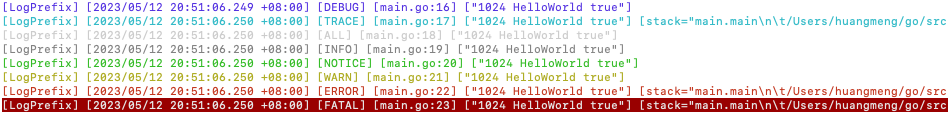
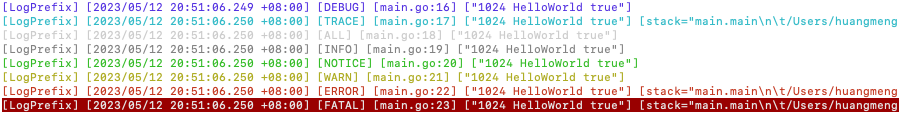
update README.md

diff --git a/README.md b/README.md
@@ -80,7 +80,7 @@ func main() {
 ```
 
 #### Highlight
-<img src="https://raw.githubusercontent.com/hslam/log/master/example.png" width = "948" height = "113" alt="example" align=center>
+<img src="https://raw.githubusercontent.com/hslam/log/master/example.png" width = "899" height = "113" alt="example" align=center>
 
 ### License
 This package is licensed under a MIT license (Copyright (c) 2019 Meng Huang)
